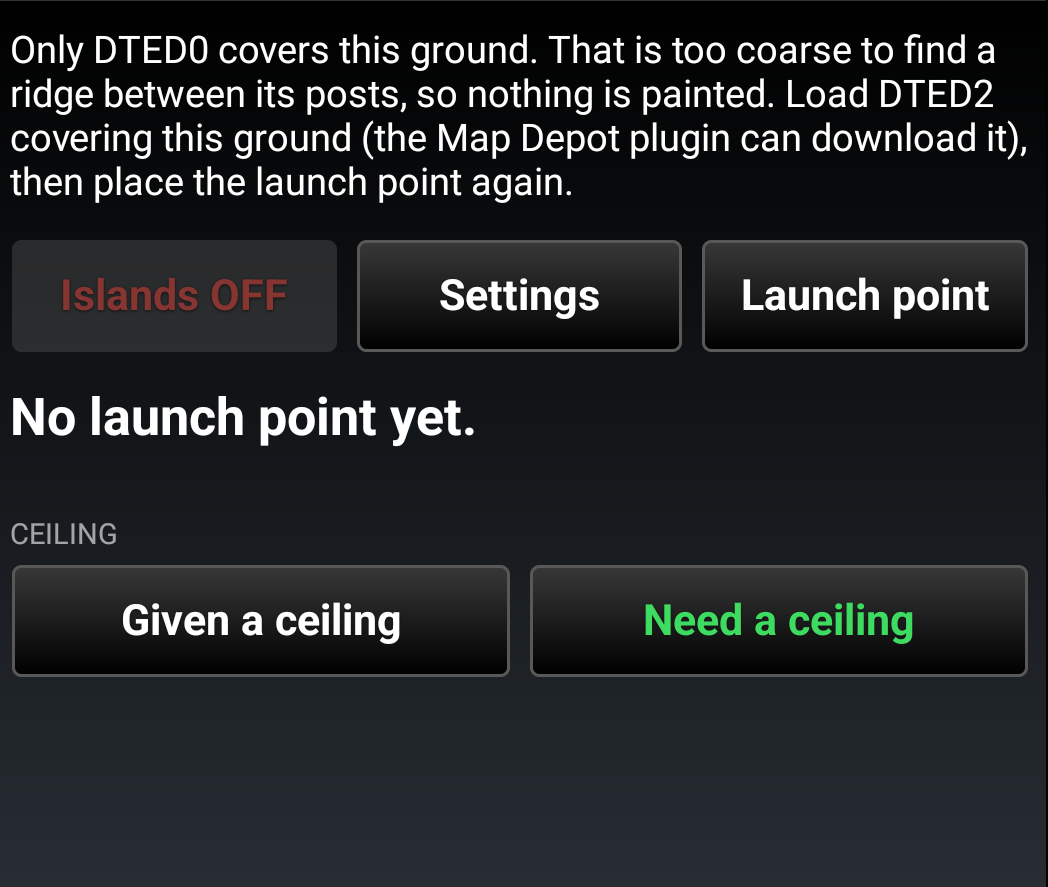
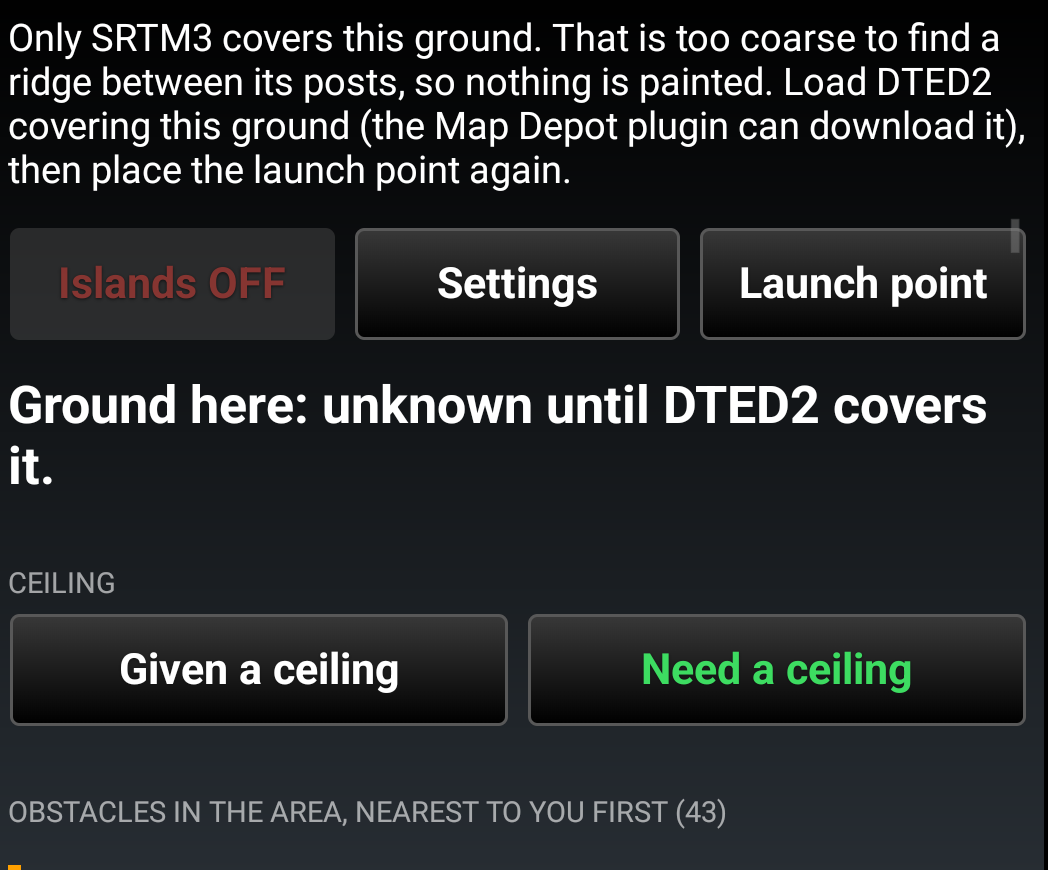
UASFlightPlan 0.2: the refused-terrain picture retaken with the new ground line
The ground line changed on that screen, so the picture is retaken on the
dev build for the guide and the manual. The built manual PDF under
assets/ is ignored; it is build output the zip already excludes.

diff --git a/docs/USER_GUIDE.md b/docs/USER_GUIDE.md
@@ -194,8 +194,9 @@ change it.
 
 - **Islands cover 14% of the area. Highest ground in the area: 5,687 ft
   MSL.** How much of the area is unworkable at this ceiling.
-- **Only DTED0 covers this ground. That is too coarse...** No paint until
-  finer elevation is loaded.
+- **Only SRTM3 covers this ground. That is too coarse...** No paint until
+  finer elevation is loaded, and the ground line says the ground is unknown
+  until DTED2 covers it.
 
   ![No terrain data](screenshots/16_no_terrain_data.png)
 - **117 more hidden by the filters.** Obstacles the height and type filters
